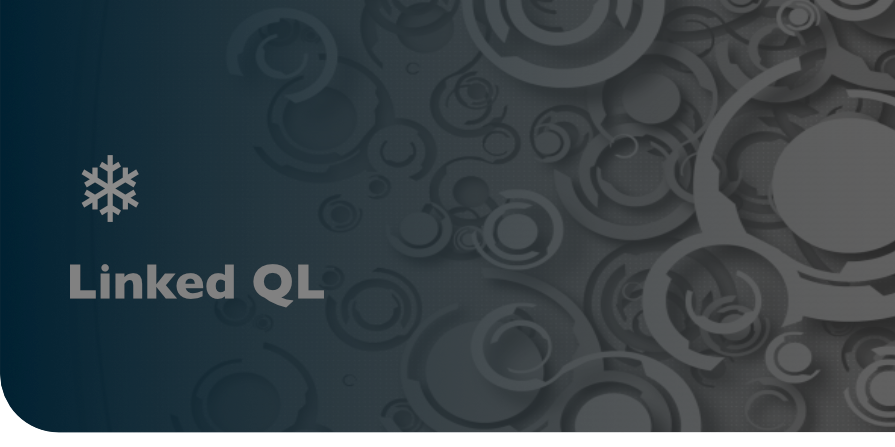
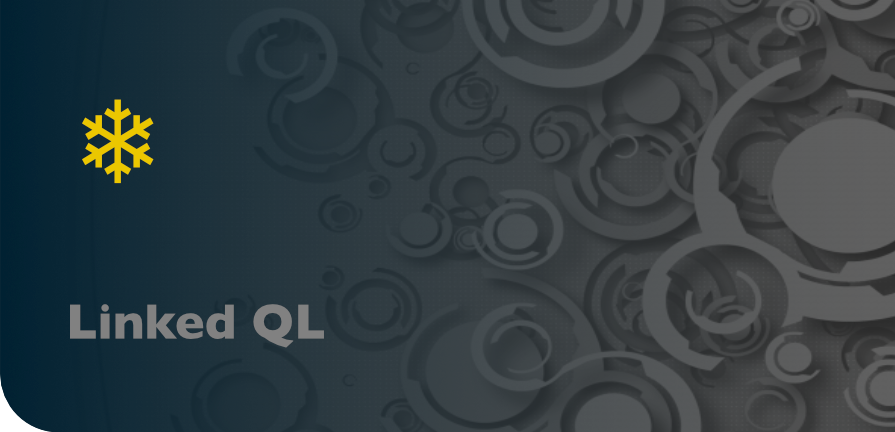
Edit README

diff --git a/README.md b/README.md
@@ -6,10 +6,11 @@
 
 <picture>
   <source media="(max-width: 799px)" srcset="https://github.com/linked-db/linked-ql/blob/master/resources/linked-ql-gh-mobile.png?raw=true">
-  <source media="(min-width: 800px)" srcset="https://github.com/linked-db/linked-ql/blob/master/resources/linked-ql-gh1-2.png?raw=true">
-    <img src="https://github.com/linked-db/linked-ql/blob/master/resources/linked-ql-gh1-2.png?raw=true" alt="Linked QL Banner" width="100%">
+  <source media="(min-width: 800px)" srcset="https://github.com/linked-db/linked-ql/blob/master/resources/linked-ql-gh1.png?raw=true">
+    <img src="https://github.com/linked-db/linked-ql/blob/master/resources/linked-ql-gh1.png?raw=true" alt="Linked QL Banner" width="100%">
 </picture>
 
+<br>
 <br>
 
 > **_Save the overhead working with SQL and structured data - from the time and effort spent figuring out relational queries to the labour managing schemas!_** Try a modern, simplistic take on SQL and databases in general!
